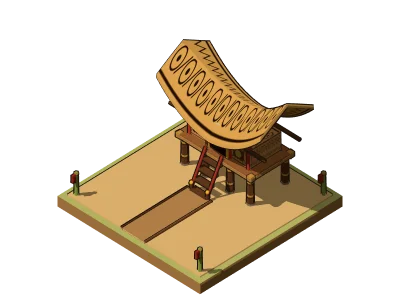
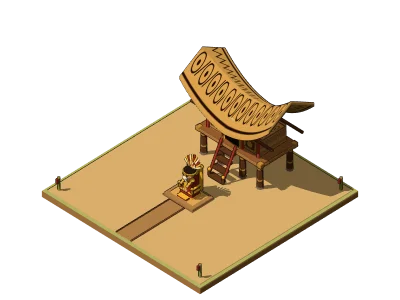
Sân chầu Điện: 14 chỗ tướng đứng chầu hai cột mỗi bên, tướng không cưỡi thú; tài liệu
- Sân chầu xếp hai cột mỗi bên lối giữa (cách lối 2,25 và 3,25 ô), 14 chỗ: đủ cho
  Hai Bà Trưng và các tướng chương sau. Cờ dời ra sau cạnh voi đá, trống đồng về cạnh
  lầu trống, cây nêu ngày Tết ở góc trước bên trái.
- Tướng đứng trong sân không cưỡi thú: Gióng tráng sĩ xuống ngựa (makeGiong onFoot);
  Gióng hiển linh cầm tre, có hào quang. Ngai luôn là Vua Hùng.
- Vẽ lại ảnh Điện cho bảng Xây dựng; khung chụp Điện rộng hơn.
- Tài liệu: mục Điện Vua Hùng 10×10 (luật, bản lưu 20, hình), giá khoảnh mới, khung mẫu,
  số đoạn lũy, đê, thành theo cấp; bản vẽ Điện 20×20 ô con; CLAUDE.md.

Claude-Session: https://claude.ai/code/session_01Wn2t7CsWmmhWSMqijSWNTQ

Changed region(s): [[0.09, 0.12, 0.9, 0.96]]

diff --git a/src/render/world.ts b/src/render/world.ts
@@ -442,7 +442,7 @@ export class World {
   private readonly warning: THREE.Mesh;
   private merchantBoat?: THREE.Object3D;
   /** Gióng đứng chầu trong sân Điện, đổi dáng khi lớn lên; tráng sĩ thì ở doanh trại; bay về trời thì hiển linh (`court`). */
-  private giong?: { obj: THREE.Group; look: GiongLook; key: string };
+  private giong?: { obj: THREE.Group; look: GiongLook; key: string; y: number; ride: boolean };
   /** Sơn Tinh đứng chầu trong sân Điện ở chương 2 (rước dâu rồi thì ở doanh trại), đánh lui Thủy Tinh thì về núi. */
   private son?: { obj: THREE.Group; look: SonLook; key: string };
   /** An Dương Vương đứng chầu trong sân Điện từ chương 3, cạnh cột đá thề. */
@@ -2050,21 +2050,25 @@ export class World {
     return dien ? this.courtSpot(dien, tuong) : null;
   }
 
-  /** Gióng lúc nhỏ ở trước Điện, bên phải bậc lên; thành tráng sĩ thì về doanh trại. */
+  /**
+   * Gióng lúc nhỏ đứng chầu trong sân Điện cho dân nuôi; thành tráng sĩ thì về doanh trại, cưỡi ngựa sắt. Chưa có doanh
+   * trại thì tráng sĩ xuống ngựa đứng chầu trong sân (tướng đứng trong sân Điện không cưỡi thú).
+   */
   private syncGiong(state: GameState): void {
     const look = giongLook(state);
+    const camp = look === 'trangSi' && !!this.barracksSpot(state, 'giong');
     const spot = this.heroHome(state, 'giong', look === 'trangSi');
-    const key = look && spot ? `${look}:${spot.x}:${spot.y}:${spot.z}:${spot.ry}` : '';
+    const key = look && spot ? `${look}:${camp}:${spot.x}:${spot.y}:${spot.z}:${spot.ry}` : '';
     if (this.giong?.key === key) return;
     if (this.giong) this.scene.remove(this.giong.obj);
     this.giong = undefined;
     if (!look || !spot) return;
-    const obj = makeGiong(look);
+    const obj = makeGiong(look, { onFoot: look === 'trangSi' && !camp });
     obj.scale.setScalar(look === 'trangSi' ? 0.9 : look === 'be' ? 1.1 : 1);
     obj.position.set(spot.x, spot.y, spot.z);
     obj.rotation.y = spot.ry ?? -Math.PI / 2 + 0.5;
     this.scene.add(obj);
-    this.giong = { obj, look, key };
+    this.giong = { obj, look, key, y: spot.y, ride: look === 'trangSi' && camp };
   }
 
   /**
@@ -2115,9 +2119,9 @@ export class World {
     this.pillar = undefined;
     if (!pkey || !dien || !spot) return;
     const obj = this.makePillar();
-    // Cột đá đứng sau lưng tướng, phía ngoài lối, còn trong sân Điện.
+    // Cột đá đứng sau lưng tướng, chếch ra phía ngoài lối, giữa bốn chỗ đứng chầu cho khỏi vướng ai.
     const c = courtSlot('anDuong');
-    const at = this.dienPoint(dien, c.x + Math.sign(c.x) * 0.6, c.z - 0.35);
+    const at = this.dienPoint(dien, c.x + Math.sign(c.x) * 0.5, c.z - 0.5);
     obj.position.set(at.x, spot.y, at.z);
     obj.rotation.y = 0.3 + rotAngle(dien.rot);
     this.scene.add(obj);
@@ -2170,7 +2174,7 @@ export class World {
       if (this.court.has(t)) continue;
       const obj =
         t === 'giong'
-          ? makeGiong('trangSi', { glow: true })
+          ? makeGiong('trangSi', { bamboo: true, glow: true, onFoot: true })
           : t === 'sonTinh'
             ? makeSonTinh({ glow: true })
             : t === 'anDuong'
@@ -2808,7 +2812,7 @@ export class World {
     if (this.giong) {
       const g = this.giong;
       // Cậu bé lắc lư, thiếu niên cúi ăn cơm, ngựa sắt thở ra lửa.
-      if (g.look === 'trangSi') g.obj.position.y = Math.abs(Math.sin(t * 2)) * 0.03;
+      if (g.ride) g.obj.position.y = g.y + Math.abs(Math.sin(t * 2)) * 0.03;
       (g.obj.userData.pose as Poser | undefined)?.({ act: 'stand', time: t });
     }
 

diff --git a/src/render/congTrinh/dien.ts b/src/render/congTrinh/dien.ts
@@ -20,17 +20,17 @@ export const DIEN_LOT = new Lot(10, [
   '...ccHHHHHHHHHHCC...',
   '...ccNNNNNNNNNNCC...',
   '.....NNNNTTNNNN.....',
-  '.......dTTTTd.......',
+  '.2.....dTTTTd.....2.',
   '.vv..............vv.',
   '.vv.....VVVV.....vv.',
-  '.....t..VVVV..t.....',
-  '...2....VVVV....2...',
-  '........m,,.........',
-  '.....t...,,...t.....',
-  '...D.....,,.....D...',
+  '...t.t..VVVV..t.t...',
+  '........VVVV........',
+  '...t.t..m,,...t.t...',
   '.........,,.........',
-  '.LL..e...,,...t..LL.',
-  '.LL.....l,,l.....LL.',
+  '.D.t.t...,,...t.t.D.',
+  '.........,,.........',
+  '.LL..t...,,...t..LL.',
+  '.LL.e...l,,l.....LL.',
   '.......GGGGGG.......',
 ]);
 
@@ -54,15 +54,24 @@ const dienBase = (level: number) => (level >= 4 ? 0.45 : 0);
 export const bannerHeight = (level: number) => (level >= 6 ? 3.2 : 2.9);
 
 /**
- * Thứ tự các tướng đứng chầu theo ô `t` của bản vẽ (từ trên xuống, trái sang): hai bên ngai là Lạc tướng (trái) và
- * Gióng trên ngựa sắt (phải, chỗ rộng nhất cho ngựa); hàng sau Sơn Tinh (trái) và An Dương Vương (phải); Cao Lỗ đứng
- * sau An Dương Vương.
+ * Chỗ đứng chầu (ô `t` của bản vẽ, đọc từ trên xuống, trái sang): mỗi bên lối giữa hai cột, cột trong cách lối giữa
+ * 2,25 ô, cột ngoài 3,25 ô; các hàng cách nhau 1 ô từ ngang ngai ra phía cổng; cột trong bốn hàng, cột ngoài ba hàng
+ * (hàng thứ tư vướng lầu trống). Tất cả 14 chỗ:
+ *
+ *   hàng ngang ngai:  0 ngoài trái   1 trong trái   2 trong phải   3 ngoài phải
+ *   hàng hai:         4              5              6              7
+ *   hàng ba:          8              9             10             11
+ *   hàng gần cổng:                  12             13
+ *
+ * Gần ngai là chỗ trên. Lạc tướng (trái) và Gióng (phải) đứng hai bên ngai; hàng sau Sơn Tinh (trái), An Dương Vương
+ * (phải); Cao Lỗ sau An Dương Vương. Còn 9 chỗ cho tướng các chương sau (Hai Bà Trưng nên đứng ở 0 và 3, ngang ngai).
+ * Tướng đứng trong sân không cưỡi thú.
  */
-const COURT_ORDER: readonly TuongId[] = ['lacTuong', 'giong', 'sonTinh', 'anDuong', 'caoLo'];
+const COURT_SLOT: Record<TuongId, number> = { lacTuong: 1, giong: 2, sonTinh: 5, anDuong: 6, caoLo: 10 };
 
 /** Chỗ tướng `t` đứng chầu (tọa độ móng Điện) và hướng mặt: quay vào lối giữa, chếch ra phía cổng cho dễ thấy mặt. */
 export function courtSlot(t: TuongId): { x: number; z: number; ry: number } {
-  const c = DIEN_LOT.cells('t')[COURT_ORDER.indexOf(t)];
+  const c = DIEN_LOT.cells('t')[COURT_SLOT[t]];
   return { x: c.x, z: c.z, ry: c.x < 0 ? 0.85 : -0.85 };
 }
 
@@ -621,4 +630,4 @@ export function makeDien(level: number): THREE.Group {
   return g;
 }
 
-export const DIEN: CongTrinh = { tiles: 10, make: makeDien, spots: dienSpots, view: { half: 8.5, lookY: 2.4, px: 28 } };
+export const DIEN: CongTrinh = { tiles: 10, make: makeDien, spots: dienSpots, view: { half: 10, lookY: 3.4, px: 26 } };

diff --git a/src/render/heroes.ts b/src/render/heroes.ts
@@ -443,6 +443,16 @@ function poseGiongRider(b: Human, a: Act): void {
   gripHands(b, ARM * K_GIONG);
 }
 
+/** Gióng xuống ngựa đứng chầu trong sân Điện: roi sắt (hay tre) dựng bên phải, tay trái nắm hờ, thở nhẹ. */
+function poseGiongStand(b: Human, a: Act): void {
+  const t = a.time ?? 0;
+  beginPose(b, t);
+  b.armR.rotation.set(-0.2, 0, 0.2);
+  b.hand.rotation.set(0.12 + 0.02 * Math.sin(t * 1.2), 0, -0.12);
+  b.armL.rotation.set(-0.3, 0, -0.26);
+  gripHands(b, ARM * K_GIONG);
+}
+
 // Cậu bé lên ba ngồi bệt trên chiếu.
 const CHILD: Defs = {
   ...BASE,
@@ -566,8 +576,9 @@ function poseTeen(b: B, a: Act): void {
 /**
  * Thánh Gióng theo từng dáng: cậu bé lên ba ngồi trên chiếu, thiếu niên ôm bát cơm, tráng sĩ cưỡi ngựa sắt giơ cao
  * roi sắt (hay cây tre khi roi đã gãy), lửa phun ra từ mõm ngựa. `glow`: Phù Đổng Thiên Vương hiển linh, có hào quang.
+ * `onFoot`: tráng sĩ xuống ngựa, đứng chầu trong sân Điện (tướng đứng trong sân không cưỡi thú).
  */
-export function makeGiong(look: GiongLook, opts: { bamboo?: boolean; glow?: boolean } = {}): THREE.Group {
+export function makeGiong(look: GiongLook, opts: { bamboo?: boolean; glow?: boolean; onFoot?: boolean } = {}): THREE.Group {
   if (look === 'be') {
     const r = new RigBuilder(CHILD);
     drawChild(r);
@@ -579,6 +590,13 @@ export function makeGiong(look: GiongLook, opts: { bamboo?: boolean; glow?: bool
     drawTeen(r);
     const { group, bones } = skinRig(r.build());
     return finish(group, (a) => poseTeen(bones, a));
+  }
+  if (opts.onFoot) {
+    const r = new RigBuilder({ ...BASE, ...bigHuman('base', [0, 0, 0], K_GIONG) });
+    drawBig(r, [0, 0, 0], K_GIONG, (h) => drawGiongRider(h, opts.bamboo ?? false));
+    const { group, bones } = skinRig(r.build());
+    if (opts.glow) addHalo(group, 1.5, -0.38);
+    return finish(group, (a) => poseGiongStand(bones as unknown as Human, a));
   }
   const r = new RigBuilder({ ...BASE, ...IRON_HORSE, ...bigHuman('qBody', GIONG_AT, K_GIONG) });
   drawIronHorse(r);

diff --git a/scripts/nhanVat.ts b/scripts/nhanVat.ts
@@ -96,6 +96,7 @@ export const NHOM: Record<string, Entry[]> = {
     { ten: 'Cao Lỗ (nỏ liên châu)', tao: () => makeCaoLo(), co: 1.25, cach: 1.1 },
     { ten: 'Cao Lỗ (hiển linh)', tao: () => makeCaoLo({ glow: true }), co: 1.3, cach: 1.1 },
     { ten: 'Lạc tướng đứng chầu (sân Điện)', tao: () => makeLacTuong(), co: 1.25, cach: 1.1 },
+    { ten: 'Gióng đứng chầu (sân Điện, hiển linh)', tao: () => makeGiong('trangSi', { bamboo: true, glow: true, onFoot: true }), co: 1.4, cach: 1.1 },
   ],
   ky_nang: [
     { ten: 'Kỹ năng (cột: 0, 0,1 … 1)', tao: () => makeGiong('trangSi'), co: 1.6, cach: 1.4 },

diff --git a/src/render/anhCongTrinhDau.ts b/src/render/anhCongTrinhDau.ts
@@ -23,7 +23,7 @@ export const ANH_DAU: Record<string, string> = {
   denCuong: '620653b4',
   denPhuDong: '00aa80d2',
   denTanVien: '60cf4d9d',
-  dien: '3dce20eb',
+  dien: '41c129e3',
   doanhTrai: '505f378a',
   donBien: 'b139b7f6',
   duongDa: 'ea47d806',

diff --git a/CLAUDE.md b/CLAUDE.md
@@ -4,7 +4,7 @@ Game xây dựng chiến thuật chạy trên trình duyệt điện thoại (Ty
 
 - Thiết kế đã chốt nằm ở `docs/thiet-ke.md`. Đọc trước khi đổi luật chơi. Muốn đổi một quyết định thì hỏi chủ dự án, rồi sửa tài liệu cùng lúc với code.
 - `src/game/`: luật chơi thuần, không dùng DOM hay Three.js, có test Vitest.
-  - Con số cân bằng ở `defs.ts`. `balance.test.ts` canh nhịp tiến trình, kể cả lên Điện cấp 6, 7, 8 ở chương 2, 3, 4 và cấp 9, 10 sau truyện, bằng người chơi mô phỏng ở `moPhong.ts`. Cũng người chơi đó ghi sổ thu chi cho báo cáo kinh tế `kinhTe.ts` (`kinhTe.test.ts` canh sổ khớp với `game.ts`). `cap67.test.ts` canh cấp 6–7 và rèn binh khí. `cap8.test.ts` canh cấp 8 và lầu nỏ. `cap910.test.ts` canh Điện cấp 9 (mở khi hết truyện), cấp 10 (mở khi thắng đủ thử thách), chín loại công trình lên cấp 9, 10, lầu nỏ lên cấp 2, 3 và rèn binh khí bậc 3. `tet.test.ts` canh Hội Tết: cách bếp làm bánh, lịch Tết, phúc lành, nhịp làm đủ bánh theo cấp Điện. `sapxep.test.ts` canh dời công trình và bốn mẫu kinh đô. `trangTri.test.ts` canh đường đi và đồ trang trí. `xuongMoc.test.ts` canh gỗ (tài nguyên thứ năm: phát rừng được gỗ, thuyền buôn buôn gỗ khi có xưởng mộc), xưởng mộc, lời gợi ý một lần của Lạc hầu khi mở công trình mới (`NEW_HINTS`, `nextHint`), bản lưu 16. `langChai.test.ts` canh làng chài và cá: cá không vào kho mà đỡ phần ăn (`foodPerMinute` trừ `fishPerMinute` ra `upkeepPerMinute`, số gạo phải ăn), cá thừa bỏ phí, phải sát sông. Người chơi mô phỏng dựng cả xưởng mộc lẫn làng chài nhưng biết dừng (`woodShort`, `wanted`, `trimFishers` ở `moPhong.ts`). `congThanh.test.ts` canh cổng thành (chương 3): dựng thay đoạn lũy, thành đất, thành Cổ Loa (`replacedWall` ở `game.ts`), giặc tìm đường qua cổng (`CONG_THANH.pathCost` trong `costGrid` ở `battle.ts`), lính trên lầu cổng bắn (`stepDefenses`), cổng tính vào vòng thành (`coLoa.ts`), yêu tinh nhắm phá cổng, chỗ cổng trong mẫu kinh đô (`Slot.cong` ở `mau.ts`: chưa mở cổng thì vẫn dựng tường), độ khó một đợt có cổng. `hoKimQuy.test.ts` canh Hồ Kim Quy (8×8, mở khi Rùa Vàng hiện lên, mốc mở `ruaVang`): hồ còn nguyên thì lũy, thành, cổng thành thêm máu (`KIM_QUY_WALLS`, `hasKimQuy` ở `game.ts`, `Battle.walls` và `maxHpOf` ở `battle.ts`), chỗ hồ trong mẫu Cổ Loa (mẫu Cổ Loa giữ sông chỉ từ Điện 6: số thứ ba của `Job`, `mauFrom` ở `mau.ts`).
+  - Con số cân bằng ở `defs.ts`. `balance.test.ts` canh nhịp tiến trình, kể cả lên Điện cấp 6, 7, 8 ở chương 2, 3, 4 và cấp 9, 10 sau truyện, bằng người chơi mô phỏng ở `moPhong.ts`. Cũng người chơi đó ghi sổ thu chi cho báo cáo kinh tế `kinhTe.ts` (`kinhTe.test.ts` canh sổ khớp với `game.ts`). `cap67.test.ts` canh cấp 6–7 và rèn binh khí. `cap8.test.ts` canh cấp 8 và lầu nỏ. `cap910.test.ts` canh Điện cấp 9 (mở khi hết truyện), cấp 10 (mở khi thắng đủ thử thách), chín loại công trình lên cấp 9, 10, lầu nỏ lên cấp 2, 3 và rèn binh khí bậc 3. `tet.test.ts` canh Hội Tết: cách bếp làm bánh, lịch Tết, phúc lành, nhịp làm đủ bánh theo cấp Điện. `sapxep.test.ts` canh dời công trình (kể cả dời, xoay Điện; áp mẫu đưa Điện về chỗ, quay về hướng gốc: `MauPlan.turnDien`) và bốn mẫu kinh đô. `trangTri.test.ts` canh đường đi và đồ trang trí. `xuongMoc.test.ts` canh gỗ (tài nguyên thứ năm: phát rừng được gỗ, thuyền buôn buôn gỗ khi có xưởng mộc), xưởng mộc, lời gợi ý một lần của Lạc hầu khi mở công trình mới (`NEW_HINTS`, `nextHint`), bản lưu 16. `langChai.test.ts` canh làng chài và cá: cá không vào kho mà đỡ phần ăn (`foodPerMinute` trừ `fishPerMinute` ra `upkeepPerMinute`, số gạo phải ăn), cá thừa bỏ phí, phải sát sông. Người chơi mô phỏng dựng cả xưởng mộc lẫn làng chài nhưng biết dừng (`woodShort`, `wanted`, `trimFishers` ở `moPhong.ts`). `congThanh.test.ts` canh cổng thành (chương 3): dựng thay đoạn lũy, thành đất, thành Cổ Loa (`replacedWall` ở `game.ts`), giặc tìm đường qua cổng (`CONG_THANH.pathCost` trong `costGrid` ở `battle.ts`), lính trên lầu cổng bắn (`stepDefenses`), cổng tính vào vòng thành (`coLoa.ts`), yêu tinh nhắm phá cổng, chỗ cổng trong mẫu kinh đô (`Slot.cong` ở `mau.ts`: chưa mở cổng thì vẫn dựng tường), độ khó một đợt có cổng. `hoKimQuy.test.ts` canh Hồ Kim Quy (8×8, mở khi Rùa Vàng hiện lên, mốc mở `ruaVang`): hồ còn nguyên thì lũy, thành, cổng thành thêm máu (`KIM_QUY_WALLS`, `hasKimQuy` ở `game.ts`, `Battle.walls` và `maxHpOf` ở `battle.ts`), chỗ hồ trong mẫu Cổ Loa (mẫu Cổ Loa giữ sông chỉ từ Điện 6: số thứ ba của `Job`, `mauFrom` ở `mau.ts`).
   - `battle.ts` mô phỏng trận: giữ kinh đô (`raid`, kể cả mùa lũ, đêm yêu tinh, quân Triệu) và ngoài bãi (`field`). Khi giữ kinh đô, quân và tướng ra từ doanh trại; tầm bắn, tốc độ, bán kính kỹ năng nhân `RAID_SCALE` vì kinh đô giãn rộng; giặc trên bộ ra từ `raidSpawnBand`.
   - Doanh trại là nơi tướng ở và điều binh, giữ tổng chỗ quân. Mỗi binh chủng luyện ở nơi ở riêng (trại giáo, trại cung, chuồng voi, trại nỏ từ chương 4; `UNITS[k].home` ở `defs.ts`, `canTrain` ở `game.ts`). `battle.test.ts` canh việc luyện ở nơi ở.
   - `doanhTrai.ts` lo nhiều doanh trại: mỗi trại một tướng chỉ huy (Lạc tướng, Gióng, Sơn Tinh, An Dương Vương, Cao Lỗ; giao và đổi tướng), chỗ quân cộng dồn, số chỗ mang ra phó bản (`FIELD_CAP`, tối đa 38), bố trí lính giữ kinh đô ở từng trại (`GUARD_CAP` theo cấp Điện, tự động hay tự bố trí; còn lại là quân dự trữ). `battle.ts` cho lính ra trận từ trại được bố trí, tướng ra từ trại mình chỉ huy. `doanhTrai.test.ts` canh việc này.
@@ -12,14 +12,14 @@ Game xây dựng chiến thuật chạy trên trình duyệt điện thoại (Ty
   - `benKia.ts` lo vùng đất bên kia sông: khoảnh bên kia (`plotOf`, `plotOrigin`, `plotAt`; mỗi bờ 10 × 3 khoảnh), điểm lạ cố định (đồn giặc bốn bậc, bản làng, đặc sản đất, của chôn; `poiAt`), vùng đồn (mỗi khoảnh thuộc vùng một đồn, `campOf`, `regionOf`; dẹp đồn thì cả vùng về tay ta, đất bên kia không mua bằng của), cầu qua sông (`cauSongDa`, `cauSongThao` ở `defs.ts`, `isBridge`; `bridgeFit`, `bridgeSnap`; bắc cầu thì khoảnh đầu cầu được dò và mở), trinh sát (`sendScout`, 40 giây chơi), đồn giặc bốn bậc (`CAMPS`; điều quân `startCamp` thành trận ngoài bãi như phó bản với `Battle.camp`, `finishCamp` ở `campaign.ts` dẹp đồn và mở cả vùng; ô đầu cầu không dựng công trình đè lên), đặc sản đất (`dacSanOf`, công trình hợp nghề làm ra thêm 30%), bản làng (`joinVillage`, làm ra nửa công trình cùng nghề, `villagesOutput` vào `productionPerMinute`; ba ô giữa khoảnh làng không dựng được), của chôn (đào khi khoảnh về tay ta), cầu hư thì công trình bên kia không làm ra gì (`farFactor`, `outputIn` ở `game.ts`). Bến, làng chài dựng được sát sông bên kia (`touchesRiver`, `riverFacing` ở `map.ts`). Phòng thủ hai bờ: bờ bên kia có công trình thì cứ ba đợt có một đợt tới bờ ấy (`farRaidBank`, `landRaidSide`; hướng `namXa`, `dongXa` ở `battle.ts`: giặc trên bộ ra từ bìa rừng bên kia, thủy binh cập bờ bên kia, nhắm nhà làng `banLang` trước rồi qua cầu), đồn biên (`donBien`, `fortFit`, lính đóng `garrison`, `setGarrison`; `startBattle` cho lính đóng ra từ đồn, bớt từ phần giữ kinh đô). Khoảnh đã mở bên kia vào chung mặt nạ đất đã mở (`openMask` ở `khoanh.ts`). Cầu còn nguyên là lối đi qua sông (`battle.ts`, đếm vòng thành ở `coLoa.ts`), lũ cuốn theo cấp (`terrain.ts`), áp mẫu chỉ xếp bờ bên này và chừa đầu cầu (`mau.ts`). `benKia.test.ts` canh.
   - `bien.ts` lo biển Đông phía đông nam (bờ chéo như Bắc Bộ quanh x + z = `BIEN_CHEO`, lồi lõm theo `bienNhieu`; `bienDo` là khoảng cách tới mép bãi cát: âm là đất, tới `BAI_CAT` là bãi, rồi biển, `isSea`, `isWater`; `bienDiem` cho điểm theo bờ; góc đông nam sau ngã ba là cửa biển, sông Đà đổ ra `CUA_BIEN`; bãi cát không chạm khoảnh nào), hai quần đảo Hoàng Sa, Trường Sa theo hướng ngoài đời (`QUAN_DAO`: mỗi quần đảo một đảo chính 20 × 20 ô đất theo ô, `DAO_CHINH`, `daoChinh`, `daoGoc`, và các đảo nhỏ tròn quanh đó; ngư trường quanh quần đảo; `onIsland`) và đường thuyền khơi (`benDock`, `riverOf`, `seaRoute`: bến đầu ra Hoàng Sa, bến thứ hai ra Trường Sa, `seaIndex`, `boatsAt`). Thủy binh Triệu vào từ biển: lúc trinh sát báo, `upcomingBoats` (`game.ts`) cho chỗ từng thuyền sẽ hiện ra khi trận mở (`plannedBoats`, `boatLayout`, `battleSeed` ở `battle.ts`, dùng chung với `startBattle`), trận không đổi; `chuong4.test.ts` canh khớp chỗ. Bến thuyền khơi (`benKhoi` ở `defs.ts`, Điện 8, cấp 2, 3 ở Điện 9, 10, sát sông) làm ra vỏ ốc và cá biển (`CA_BIEN_PER_MIN`, `fishOf` ở `game.ts` đỡ gạo ăn như cá làng chài); người chơi mô phỏng có dựng. `bien.test.ts` canh. Sau này Điện 10 điều quân ra đóng đảo (chưa làm).
   - `manVao.ts` tóm tắt bản lưu cho màn hình vào game (`tomTat`: game mới hay chơi tiếp, chương `chapterOf`, cấp Điện, dân, đã vắng bao lâu, đã hết truyện); `manVao.test.ts` canh.
-  - `map.ts` lo cỡ lưới (76×76 từ bản lưu 18: sông Thao, sông Đà rộng 7 ô từ ô 52 tới `RIVER_END` 59, sông Thao đổ vào sông Đà ở ngã ba; bên kia sông là đất thật, `farBankOf` cho bờ nam sông Đà, bờ đông sông Thao; Điện ở ô 37, 37; thủy quái, thuyền giặc chỉ dùng ba ô sông sát bờ, lặn ở `RIVER_DIVE`), chỗ móng khi chạm ô lúc đặt công trình (`footOnLand`: móng nằm trọn bờ của ô chạm, chạm xuống sông thì về bờ gần nhất) và độ cao tự nhiên của ô đất (bên kia soi gương qua sông). `benKia.test.ts` canh lưới qua sông, độ cao bên này giữ y như cũ, bản lưu 18. `khoanh.ts` lo khoảnh đất 5×5: đất đã mở (`openMask`, `isOpen`, `openStart`), phát rừng (`openKhoanh`) không giới hạn lượt, giá tăng từng nấc theo số khoảnh đã phát (`khoanhCost`, `khoanhCostAt`); `khoanh.test.ts` canh. `terrain.ts` lo nền công trình, đê và nước lũ loang từ sông.
-  - Công trình nhiều ô có móng to hơn mô hình một ô mỗi chiều (kinh đô lớn). `findSpot` (`game.ts`) chọn chỗ dựng gần Điện, ưu tiên chỗ có viền trống. `xepLai.ts` nâng bản lưu kinh đô nhỏ (trước phiên bản 11) lên kinh đô lớn: dựng lại theo mẫu, hoàn của. `save.test.ts` canh việc này.
+  - `map.ts` lo cỡ lưới (76×76 từ bản lưu 18: sông Thao, sông Đà rộng 7 ô từ ô 52 tới `RIVER_END` 59, sông Thao đổ vào sông Đà ở ngã ba; bên kia sông là đất thật, `farBankOf` cho bờ nam sông Đà, bờ đông sông Thao; Điện móng 10×10 ở ô 32, 32 (`DIEN_HOME`, từ bản lưu 20), dời được trong đất bên này sông (`isNearBank`), không tốn của; thủy quái, thuyền giặc chỉ dùng ba ô sông sát bờ, lặn ở `RIVER_DIVE`), chỗ móng khi chạm ô lúc đặt công trình (`footOnLand`: móng nằm trọn bờ của ô chạm, chạm xuống sông thì về bờ gần nhất) và độ cao tự nhiên của ô đất (bên kia soi gương qua sông). `benKia.test.ts` canh lưới qua sông, độ cao bên này giữ y như cũ, bản lưu 18. `khoanh.ts` lo khoảnh đất 5×5: đất đã mở (`openMask`, `isOpen`, `openStart`; lúc đầu mở sẵn 25 khoảnh `START_KHOANH`; khung mẫu theo cấp Điện `AREA`), phát rừng (`openKhoanh`) không giới hạn lượt, giá tăng từng nấc theo số khoảnh đã phát (`khoanhCost`, `khoanhCostAt`); `khoanh.test.ts` canh. `terrain.ts` lo nền công trình, đê và nước lũ loang từ sông.
+  - Công trình nhiều ô có móng to hơn mô hình một ô mỗi chiều (kinh đô lớn). `findSpot` (`game.ts`) chọn chỗ dựng gần Điện, ưu tiên chỗ có viền trống. `xepLai.ts` nâng bản lưu kinh đô nhỏ (trước phiên bản 11) lên kinh đô lớn: dựng lại theo mẫu, hoàn của; và nâng bản lưu 11–19 lên 20: Điện 5×5 lớn ra 10×10 về phía tây bắc (`growDien`), công trình vướng dời sang chỗ trống gần nhất (`roomFor` ở `game.ts`), lũy, thành, đồ trang trí vướng thì hoàn của (`relaid.dien`). Test giả bản lưu cũ thì thu Điện về 5×5 (`oldDien` ở `testmap.ts`). `save.test.ts` canh việc này.
   - Đường đi (4 loại, chung giới hạn `ROAD_LIMIT`) và đồ trang trí là loại công trình có `decor` (`isDecor`, `isRoad` ở `defs.ts`): chỉ để nhìn, giặc không nhắm và đi qua được (`battle.ts`), lũ không làm hư (`terrain.ts`), áp mẫu thì dỡ món vướng (`mau.ts`). Trải đè đổi vật liệu và dọn bằng `clearDecorAt` ở `game.ts`. Kéo thả trải cả dải: `lineTiles` (`map.ts`) cho dải ô thẳng theo trục kéo, `placeLine` (`game.ts`) trải từng ô, bỏ qua ô hỏng; `trangTri.test.ts` canh.
-  - Xoay công trình (`canRotateType`, `rotateBuilding`, `rotOf` ở `game.ts`; `place`, `move` nhận hướng `rot`): móng vuông nhiều ô xoay từng nấc 90°, trừ Điện, bến, làng chài, cầu; trường tùy chọn `Building.rot` (1–3). `rotAngle`, `turnLocal` (`map.ts`) đổi nấc ra góc và xoay điểm trên mô hình (tướng ra trận từ mặt trước doanh trại ở `battle.ts`). `xoay.test.ts` canh.
+  - Xoay công trình (`canRotateType`, `rotateBuilding`, `rotOf` ở `game.ts`; `place`, `move` nhận hướng `rot`): móng vuông nhiều ô xoay từng nấc 90° (kể cả Điện, từ bản lưu 20), trừ bến, làng chài, cầu; trường tùy chọn `Building.rot` (1–3). `rotAngle`, `turnLocal` (`map.ts`) đổi nấc ra góc và xoay điểm trên mô hình (tướng ra trận từ mặt trước doanh trại ở `battle.ts`). `xoay.test.ts` canh.
   - Test đặt công trình theo mốc ở `testmap.ts` (so với Điện, bìa vùng đất, bờ sông), không viết cứng số ô. `setDien(s, cấp)` đặt cấp Điện và mở vùng đất hình vuông của cấp ấy (như trước khi có khoảnh) để `edge(cấp)` là bìa đất.
   - `campaign.test.ts`, `giong.test.ts`, `chuong2.test.ts`, `chuong3.test.ts` và `caoLo.test.ts` canh độ khó từng màn, từng mùa lũ, đêm yêu tinh và đợt quân Triệu. Màn chương 2, 3, 4 đánh thử bằng `testkit.ts` theo chuẩn: người chơi thường (bấm chậm, không Đền) phải thắng (quân mẫu chương 4 có lính nỏ: `SAMPLE_ARMY4`). Thử thách thì người chơi giỏi (bấm ngay, có Đền, rèn đủ 2 bậc) phải thắng, người chơi thường phải thua, với tướng khi đã hết truyện (`lateHero`).
 - `src/render/`: cảnh 3D phong cách "Nét Đông Sơn" (tô màu hoạt hình, viền mực, hoa văn trống đồng).
-  - Công trình, mỗi loại một dáng và mỗi cấp một dáng (kể cả lầu nỏ và ba nơi ở của binh chủng). Mười bốn loại (Điện, ruộng, bến, nhà sàn, bãi đá, lò rèn, kho, doanh trại, ba nơi ở, vườn đậu lá dong, chuồng lợn, bếp gói bánh) vẽ lại trên trọn móng ở `congTrinh/`, cùng xưởng mộc, làng chài, Hồ Kim Quy (công trình mới, không có dáng cũ; bờ hồ theo ô con mặt nước của bản vẽ, `lakeOutline`; Rùa Vàng bơi quanh gò, `userData.swim`, World gọi `swimTurtle`), mỗi loại một tệp theo bản vẽ ô con ở `docs/bo-cuc-cong-trinh.md` (đọc bằng `Lot`, `lot.ts`), có chỗ đứng người và thuyền neo (`benDocks`, `langChaiDocks`; thuyền đánh cá `fishing` bơi vòng quanh chỗ neo, World gọi `rowFishingBoat`). Loại phải sát sông (bến, làng chài) quay mặt trước ra sông. Các loại khác ở `buildings.ts`, vẽ theo móng cũ; cổng thành (`makeCongThanh`) cũng ở đây, World xoay cổng theo đoạn tường kề bên (`gateTurn`) và khép cánh cửa (`userData.door`) khi có giặc; `footScale` phóng theo móng mới và chừa viền cỏ. `lotModel` (`congTrinh/index.ts`) dựng mô hình vừa móng cho mọi loại, World gọi ở `makeBuilding`; người làm giữ cỡ người thật. Dáng cũ của mười bốn loại còn ở `buildings.ts` chỉ để `node scripts/chup-cong-trinh.mjs` chụp so cũ và mới. `footprint.test.ts` canh mô hình không tràn quá nửa ô ra ngoài móng, và bến, làng chài cùng thuyền neo không chạm bờ bên kia. Mái theo cấp (`roofFor`): tranh tới cấp 5, cấp 6 viền đỏ, cấp 7 ngói, cấp 8 ngói viền đồng vàng, cấp 9 thêm dải đồng hoa văn dưới diềm (`patternStrip`, `patternSkirt`), cấp 10 thêm chim Lạc hai đầu nóc (`lacBird`). Cấp 9, 10 không thêm ô con mới, chỉ đổi phần sẵn có (bảng cuối `docs/bo-cuc-cong-trinh.md`). Cấp 6–8 to 110–120% mà không tràn ô: thu tâm các phần (`setSpread`, `grownGroup`), nền thu vừa ô (`edgeOf`).
+  - Công trình, mỗi loại một dáng và mỗi cấp một dáng (kể cả lầu nỏ và ba nơi ở của binh chủng). Mười bốn loại (Điện, ruộng, bến, nhà sàn, bãi đá, lò rèn, kho, doanh trại, ba nơi ở, vườn đậu lá dong, chuồng lợn, bếp gói bánh) vẽ lại trên trọn móng ở `congTrinh/`, cùng xưởng mộc, làng chài, Hồ Kim Quy (công trình mới, không có dáng cũ; bờ hồ theo ô con mặt nước của bản vẽ, `lakeOutline`; Rùa Vàng bơi quanh gò, `userData.swim`, World gọi `swimTurtle`), mỗi loại một tệp theo bản vẽ ô con ở `docs/bo-cuc-cong-trinh.md` (đọc bằng `Lot`, `lot.ts`), có chỗ đứng người và thuyền neo (`benDocks`, `langChaiDocks`; thuyền đánh cá `fishing` bơi vòng quanh chỗ neo, World gọi `rowFishingBoat`). Loại phải sát sông (bến, làng chài) quay mặt trước ra sông. Các loại khác ở `buildings.ts`, vẽ theo móng cũ; cổng thành (`makeCongThanh`) cũng ở đây, World xoay cổng theo đoạn tường kề bên (`gateTurn`) và khép cánh cửa (`userData.door`) khi có giặc; `footScale` phóng theo móng mới và chừa viền cỏ. `lotModel` (`congTrinh/index.ts`) dựng mô hình vừa móng cho mọi loại, World gọi ở `makeBuilding`; người làm giữ cỡ người thật. Dáng cũ của mười bốn loại còn ở `buildings.ts` chỉ để `node scripts/chup-cong-trinh.mjs` chụp so cũ và mới. Điện 10×10 (`congTrinh/dien.ts`): khối cung điện vẽ theo dáng Điện 5×5 cũ phóng 1,5 lần (`palaceBlock` trong khung `scaled`, dùng `ShapeBuilder.frame`), sân chầu có bệ ngai, ngai vàng, Vua Hùng ngồi ngai (bản tĩnh `bakeVuaHung` ở `heroes.ts`, gắn vào mô hình Điện), 14 chỗ tướng đứng chầu hai cột mỗi bên (ô `t`, `courtSlot`); World dựng tướng đứng chầu theo hướng Điện xoay (`courtSpot`, `dienPoint`; tướng chưa có dáng truyện riêng thì `syncCourt`: Lạc tướng `makeLacTuong`, tướng hiển linh có hào quang), tướng trong sân không cưỡi thú (`makeGiong(..., { onFoot })`). `footprint.test.ts` canh mô hình không tràn quá nửa ô ra ngoài móng, và bến, làng chài cùng thuyền neo không chạm bờ bên kia. Mái theo cấp (`roofFor`): tranh tới cấp 5, cấp 6 viền đỏ, cấp 7 ngói, cấp 8 ngói viền đồng vàng, cấp 9 thêm dải đồng hoa văn dưới diềm (`patternStrip`, `patternSkirt`), cấp 10 thêm chim Lạc hai đầu nóc (`lacBird`). Cấp 9, 10 không thêm ô con mới, chỉ đổi phần sẵn có (bảng cuối `docs/bo-cuc-cong-trinh.md`). Cấp 6–8 to 110–120% mà không tràn ô: thu tâm các phần (`setSpread`, `grownGroup`), nền thu vừa ô (`edgeOf`).
   - Đường đi và đồ trang trí: `decor.ts`. Đường và món một ô vẽ theo lô (`buildDecor`, InstancedMesh, World gọi ở `syncDecor`); cây đa, ao làng mỗi cái một mô hình qua `buildingModel`.
   - Ảnh công trình cho bảng Xây dựng vẽ sẵn, không vẽ lúc chơi: `anhCongTrinh.ts` dựng cảnh ảnh (`thumbScene`: mô hình cấp 1 qua `lotModel` trên bệ cỏ; lũy, đê, thành, ụ nỏ dựng đoạn tường; bến, làng chài có khúc sông và thuyền), dấu vân tay mô hình (`thumbHash`) và hàm vẽ (`renderThumb`). `node scripts/anh-cong-trinh.mjs` vẽ loại nào có mô hình đổi ra `public/anh-cong-trinh/<loại>.webp` (400×300) và ghi dấu vào `anhCongTrinhDau.ts` (game dùng làm `?v=`). `anhCongTrinh.test.ts` canh đủ ảnh và dấu khớp mô hình: **đổi dáng hay màu công trình thì chạy script này**, không thì test hỏng.
   - Trang trí ô trống (khóm cỏ, hoa dại, đá nhỏ tự mọc, chỉ để nhìn, không thuộc state): `oTrong.ts`. `wildSpots` gieo theo hạt giống từng ô trên ô đã mở không có công trình, gần Điện thưa hơn; `buildWild` vẽ theo lô, World gọi ở `syncWild` khi lưới chiếm ô (`occupancy`), đất mở, bậc đất hay cây đá đổi (né ô có cây đá). `oTrong.test.ts` canh.
@@ -38,13 +38,13 @@ Game xây dựng chiến thuật chạy trên trình duyệt điện thoại (Ty
     - `monsters.ts`: thủy quái và yêu tinh có xương (tôm binh, cá phun nước, cá sấu, thuồng luồng, quỷ núi, ma trơi).
     - `people.ts`: dân theo nghề (mặc, dụng cụ, đồ mang và động tác làm việc theo nghề; ngồi gói bánh), người lái đò chèo thuyền. `world.ts` gọi `pose` mỗi khung (`animateWorker`, thuyền).
     - Độ chi tiết (`RigBuilder(defs, detail)`, `ShapeBuilder.detail`): lính 0,7, thú 0,75, dân 0,6 cho nhẹ máy; tướng giữ đủ.
-    - `heroes.ts`: các tướng có xương (Gióng ba dáng và ngựa sắt có lửa phun ở mõm, Sơn Tinh, Thủy Tinh, An Dương Vương, Cao Lỗ, Lạc tướng đánh trống). Kỹ năng riêng (quét tre, dời non, hô mưa, nỏ thần, nỏ liên châu) qua `Act.skill`, Cao Lỗ thổi tù và (Lệnh bắn) qua `Act.horn`, thắng trận qua `Act.win`. Người đánh trống đặt góc dùi bằng `userData.beat`. Tượng ở đền là bản tĩnh (`bakeIronHorse`, `bakeSonTinh`).
+    - `heroes.ts`: các tướng có xương (Gióng ba dáng và ngựa sắt có lửa phun ở mõm, Gióng xuống ngựa đứng chầu, Sơn Tinh, Thủy Tinh, An Dương Vương, Cao Lỗ, Lạc tướng đánh trống, Lạc tướng đứng chầu; Vua Hùng ngồi ngai là bản tĩnh `bakeVuaHung`). Kỹ năng riêng (quét tre, dời non, hô mưa, nỏ thần, nỏ liên châu) qua `Act.skill`, Cao Lỗ thổi tù và (Lệnh bắn) qua `Act.horn`, thắng trận qua `Act.win`. Người đánh trống đặt góc dùi bằng `userData.beat`. Tượng ở đền là bản tĩnh (`bakeIronHorse`, `bakeSonTinh`).
     - `node scripts/chup-nhan-vat.mjs <nhóm>` chụp từng nhân vật có xương ở mọi tư thế vào `chup/`; danh sách ở `scripts/nhanVat.ts`.
   - Biển Đông: `bien.ts` (mặt biển, bãi cát dựng theo dải dọc bờ chéo `coastBand`, sóng, hai quần đảo có tên `buildSea`, `animateSea`; đất gần bờ thấp dần `shoreCap`, World dùng cho nền, đất ngoài lưới, rừng; đảo chính vẽ theo ô như đất kinh đô, có gò đồi, dừa, phong ba `mainIsland`; cá voi, cá heo có xương `makeWhale`, `makeDolphin`, lâu lâu nổi lên gần chỗ camera nhìn `SeaLife`; `islandAt` cho chạm vào đảo). Bến thuyền khơi vẽ ở `congTrinh/benKhoi.ts`; thuyền khơi buồm cánh dơi `makeThuyenKhoi` ở `models.ts`, World dựng riêng (`syncSeaBoats`) và cho đi chuyến neo, xuôi sông, kéo lưới quanh đảo, về (`moveSeaBoat`). Camera kéo ra biển đông nam từ Điện 1, ngoài vùng đất chỉ đi trong dải chéo dọc hai quần đảo (`CamBounds.sea` ở `camera.ts`); dưới Điện 8 biển phủ mây mù (`buildSeaMist`, World `syncSeaMist`, lên Điện 8 thì tan dần), chưa có cá voi, cá heo. Đoàn thuyền thủy binh Triệu từ khơi vào cửa sông lúc trinh sát báo: World `syncFleet`, `moveFleet`. Bảng quần đảo ở `src/ui/bien.ts`. `window.__debug.seaTime(t)`, `seaLife('whale' | 'dolphins')`, `quanDao(id)` để chụp thử.
   - Bên kia sông: `benKia.ts` (cầu ba cấp `bridgeModel`, mây mù `cloudPuffs`, dấu điểm lạ `poiMarker`, nhà làng `makeBanLang`, đồn biên `makeDonBien`); World dựng mây (`syncFog`), dấu điểm lạ (`syncPois`), rừng bên kia (`syncFarForest`), người trinh sát chạy qua cầu (`updateScouts`), quân hành quân qua cầu tới đồn (`startMarch`). Bảng Đất bên kia sông ở `src/ui/benKia.ts`.
   - Tọa độ cảnh lấy ô (`HALF`, `HALF`) = (27,5; 27,5) làm gốc, như tâm lưới 55×55 cũ, để camera và ảnh chụp thử không xê dịch khi lưới nới qua sông. Rừng hai bờ bên kia dựng riêng một lần, không đổ bóng (`buildFarForest`).
   - Nền đất kiểu bờ vát: `nenDat.ts` (`NenDat`) dựng đất trong lưới (và 14 ô ngoài lưới) liền một khối: giữa ô phẳng, mép ô cao dốc thoai thoải (`RAMP`) xuống ô thấp, mặt dốc pha màu đất, pháp tuyến dốc làm mượt; ô dưới móng mọi công trình và ô đầu cầu (`flatTiles` ở `world.ts`) giữ phẳng tới mép: đất thường thấp hơn bên cạnh dốc lên tới chân móng, sông hay móng khác thấp hơn thì dựng vách đứng (`computeH`). Chia mảnh 26 ô, World so dấu từng ô (`rebuildLand`) rồi chỉ dựng lại mảnh có ô đổi (`update`). Ô ngoài lưới gần bờ biển chéo thấp dần, từ bãi cát trở ra là nước (`NenInput.outside`); ô góc đông nam trong lưới cũng vậy (`SHORE` ở `world.ts`, chỉ đổi hình vẽ): bãi cát, biển vẽ riêng ở `bien.ts`. Đồ đứng trên đất lấy mặt dốc bằng `surfaceY` (`heightAt`), công trình lấy `groundY` (giữa ô). `nenDat.test.ts` canh không hở kẽ, `heightAt` khớp hình vẽ, dựng lại từng phần y như dựng mới.
-  - Đất bậc thang, nước lũ, mưa giông, đêm yêu tinh, cảnh Tết (cây nêu, dây cờ, mâm bánh trong sân chầu Điện, theo bản vẽ `DIEN_LOT`) ở kinh đô: `world.ts`.
+  - Đất bậc thang, nước lũ, mưa giông, đêm yêu tinh, cảnh Tết (cây nêu, dây cờ, mâm bánh trong sân chầu Điện, theo bản vẽ `DIEN_LOT` và hướng Điện xoay) ở kinh đô: `world.ts`.
   - Bãi chiến phó bản là cảnh riêng: `battlefield.ts` (nền `benKia` cho trận đánh đồn bên kia sông: sông và cầu tre sau lưng quân ta, đồn rào cọc sau lưng giặc) (Mộ Dạ: ngựa vua phi theo thanh "Vua tới biển", Rùa Vàng nổi lên ở biển; `MO_DA` ghi đường ngựa và góc biển, `battlefield.test.ts` canh). `node scripts/chup-bai-chien.mjs <nền>` chụp bãi chiến theo nền, không cần state. Lính trong trận vẽ bằng `battleView.ts`, dùng chung cho cả hai loại trận.
   - Chất liệu ở `toon.ts`, màu ở `palette.ts`.
   - `window.__debug` (trong `main.ts`) cho phép bấm qua màn hình vào game (`enter()`), sửa state, `resync()`, đặt `camera()`, `place()` công trình, `march()` đánh màn, `skill()` bấm kỹ năng, `select(id)` mở bảng công trình (kể cả công trình bị công trình khác che), `khoanh(id)` mở bảng Khoảnh rừng (`openable()` cho các khoảnh phát được). `scripts/chup.mjs` dùng nó để chụp thử bằng Playwright.

diff --git a/docs/bo-cuc-cong-trinh.md b/docs/bo-cuc-cong-trinh.md
@@ -10,9 +10,48 @@ Cách đọc bản vẽ:
 - Người, thú, đồ vật giữ cỡ như bây giờ. Mỗi cấp vẫn thêm một phần lớn nhìn rõ; cấp thấp móng còn thưa, lên cấp thì lấp dần.
 - Khi làm, bản vẽ này chép vào code như bản vẽ mẫu kinh đô ở `src/game/mau.ts`, rồi sửa ở code. Tệp này giữ bản đã duyệt; chỗ nào đổi khi vẽ thật thì sửa cả ở đây.
 
-### Điện Vua Hùng: 4×4 → 5×5
+### Điện Vua Hùng: 4×4 → 5×5 → 10×10
 
-Cung điện có sân chầu: nhà chính lùi về sau, sân chầu phía trước có lối đá thẳng từ cổng lên thềm. Lạc hầu, lính gác, cây nêu, mâm bánh và tướng đứng trong sân, không cần ô trống ngoài móng nữa.
+Từ bản lưu 20 Điện móng 10×10 (chủ dự án yêu cầu; xem mục Điện Vua Hùng 10×10 trong `docs/thiet-ke.md`). Nửa sau là khối cung điện vẽ theo bản 5×5 đã duyệt (ở dưới) phóng 1,5 lần; nửa trước là sân chầu: Vua Hùng ngồi ngai vàng trên bệ trước thềm, các tướng đứng chầu hai bên lối giữa, lối đá thẳng ra cổng. Người, ngai, cờ, trống trong sân giữ cỡ thật.
+
+```
+. . . 7 . . . . . . . . . . . . 7 . . .
+. . . . . H H H H H H H H H H . . . . .
+. . . c c H H H H H H H H H H C C . . .
+. . . c c H H H H H H H H H H C C . . .
+. . . c c H H H H H H H H H H C C . . .
+. . . c c H H H H H H H H H H C C . . .
+. . . c c N N N N N N N N N N C C . . .
+. . . . . N N N N T T N N N N . . . . .
+. 2 . . . . . d T T T T d . . . . . 2 .
+. v v . . . . . . . . . . . . . . v v .
+. v v . . . . . V V V V . . . . . v v .
+. . . t . t . . V V V V . . t . t . . .
+. . . . . . . . V V V V . . . . . . . .
+. . . t . t . . m , , . . . t . t . . .
+. . . . . . . . . , , . . . . . . . . .
+. D . t . t . . . , , . . . t . t . D .
+. . . . . . . . . , , . . . . . . . . .
+. L L . . t . . . , , . . . t . . L L .
+. L L . e . . . l , , l . . . . . L L .
+. . . . . . . G G G G G G . . . . . . .
+```
+
+- `7`, `H`, `c`, `C`, `N`, `T`, `d`: khối cung điện (cột chim Lạc, nhà chính, hai chái, nền, thềm, đôi đỉnh đồng), vẽ theo bản 5×5 ở dưới, phóng 1,5 lần; chỗ chữ trên đây chỉ là chỗ chừng của khối sau khi phóng.
+- `V` cấp 1, bệ ngai: Vua Hùng ngồi ngai vàng ở mọi cấp. Cấp 1–3 ụ đất trải chiếu; cấp 4 bệ đá ba bậc, thảm đỏ; cấp 6 mép bậc viền vàng; cấp 9 mặt bậc chạm hoa văn. Ngai cấp 3 có lọng (cấp 6 lọng vàng), cấp 5 đôi quạt lông chim, cấp 7 chim Lạc trên tựa ngai.
+- `t` cấp 1, 14 chỗ tướng đứng chầu, hai cột mỗi bên (cột trong cách lối giữa 2,25 ô, cột ngoài 3,25 ô). Lạc tướng, Gióng hai bên ngai; Sơn Tinh, An Dương Vương hàng hai; Cao Lỗ hàng ba bên phải; còn lại để dành cho các chương sau. Tướng đứng trong sân không cưỡi thú.
+- `,` cấp 1, lối đi từ bệ ngai ra cổng (cấp 4: lát đá; cấp 6: viền vàng).
+- `m` cấp 1, chỗ bày mâm bánh ngày Tết, trước bệ ngai.
+- `e` cấp 1, chỗ cây nêu ngày Tết, dây cờ căng tới hai cột cờ `2`.
+- `l` cấp 1, chỗ Lạc hầu và lính gác (từ cấp 2) đứng trong cổng.
+- `2` cấp 2, cờ đỏ ở sau sân, cạnh voi đá.
+- `D` cấp 2, trống đồng trên giá cạnh lầu trống (cấp 2–4 một trống bên phải; cấp 5 hai trống lớn).
+- `G` cấp 4, cổng Nghi Môn phóng 1,3 lần (cấp 6 hai tầng mái, cấp 8 chim đồng, cấp 10 cổng thành), rào cột quanh móng thay bốn cọc mốc tre.
+- `v` cấp 5, đôi voi đá trên bệ (cấp 8 yên gấm vàng).
+- `L` cấp 6, lầu trống đồng ở hai góc trước, phóng 1,25 lần.
+- Cấp 1–3: bốn cọc mốc tre buộc vải đỏ ở bốn góc. Cấp 2: viền đá quanh sân.
+
+Khối cung điện (bản 5×5 trước bản lưu 20; nay chỉ dùng các chữ `7`, `H`, `c`, `C`, `N`, `T`, phần sân của bản này đã dời sang sân chầu ở trên):
 
 ```
 7 . H H H H H H . 7
@@ -28,21 +67,11 @@ L m m . , , . . . L
 ```
 
 - `H` cấp 1, nhà chính mái thuyền (cấp 5: mái hai tầng; cấp 7: mái ba tầng, đôi chim đồng lớn; cấp 8: trống đồng lớn trên nóc).
-- `m` cấp 1, chỗ bày mâm bánh ngày Tết.
-- `,` cấp 1, lối đi giữa sân (cấp 4: lát đá).
-- `l` cấp 1, chỗ Lạc hầu và lính gác đứng.
-- `e` cấp 1, chỗ cây nêu và dây cờ ngày Tết.
-- `a` cấp 1, chỗ tướng đứng (Sơn Tinh, An Dương Vương, cột đá thề).
-- `2` cấp 2, cờ đỏ hai bên lối.
-- `D` cấp 2, trống đồng trên giá (cấp 5: hai trống lớn).
 - `C` cấp 3, chái nhà bên phải.
 - `N` cấp 4, nền đất đắp viền đá dưới nhà (cấp 6: nền đá thứ hai, lan can đỏ; cấp 8: viền đồng).
-- `T` cấp 4, thềm đá ba bậc (cấp 8: thềm rộng, viền đá sẫm).
-- `G` cấp 4, cổng gỗ có mái nhỏ giữa rào, mái theo cấp (mới; cấp 8: mái ngói viền đồng, chim đồng).
-- `L` cấp 6, lầu trống đồng ở hai góc trước.
+- `T` cấp 4, thềm đá ba bậc, đôi đỉnh đồng hai bên (cấp 8: thềm rộng, viền đá sẫm).
 - `7` cấp 7, cột chim Lạc đai đồng.
-- `c` cấp 7, chái nhà bên trái, cho cân hai bên (mới).
-- Cấp 1–3: bốn cọc mốc tre buộc vải đỏ ở bốn góc (mới). Cấp 4: hàng rào cột chạm đầu bọc đồng chạy quanh mép móng thay cọc mốc, chừa cổng giữa mặt trước. Nhà chính to hơn dáng cũ chừng 15%.
+- `c` cấp 7, chái nhà bên trái, cho cân hai bên.
 
 ### Ruộng lúa: 3×3 → 4×4
 
@@ -572,7 +601,7 @@ Móng đã kín ở cấp 8, nên cấp 9, 10 không thêm ô con mới: mỗi l
 
 | Công trình | Phần | Cấp 9 | Cấp 10 |
 |---|---|---|---|
-| Điện | `H`, `G` | `H`: tầng gác giữa vách và mái, cột cái sơn đỏ in hoa văn | `G`: cổng thành hai trụ đất nện, vòm cửa, lầu cổng hai tầng mái; `H`: trống đồng trên nóc to gấp rưỡi, bốn tượng cóc đồng |
+| Điện | `H`, `G`, `V` | `H`: tầng gác giữa vách và mái, cột cái sơn đỏ in hoa văn; `V`: mặt bậc bệ ngai chạm hoa văn | `G`: cổng thành hai trụ đất nện, vòm cửa, lầu cổng hai tầng mái; `H`: trống đồng trên nóc to gấp rưỡi, bốn tượng cóc đồng |
 | Ruộng lúa | `O`, `M` | `O`: bờ ao lát đá, cầu tre cong qua ao | `M`: miếu thành đình nhỏ hai tầng mái, cây nêu |
 | Bến chợ thuyền | `G` | cầu tàu lát đá trên trụ đá, cột neo đồng | thuyền buôn thứ hai thành thuyền buôn lớn hai buồm |
 | Nhà sàn | `H`, `E`, `h` | `H`: lan can sàn chạm hoa văn; `E`: cầu thang gỗ to, má thang đỏ | `h`: nếp nhà sàn thứ hai mái thuyền, hiên có mái nối hai nếp |
